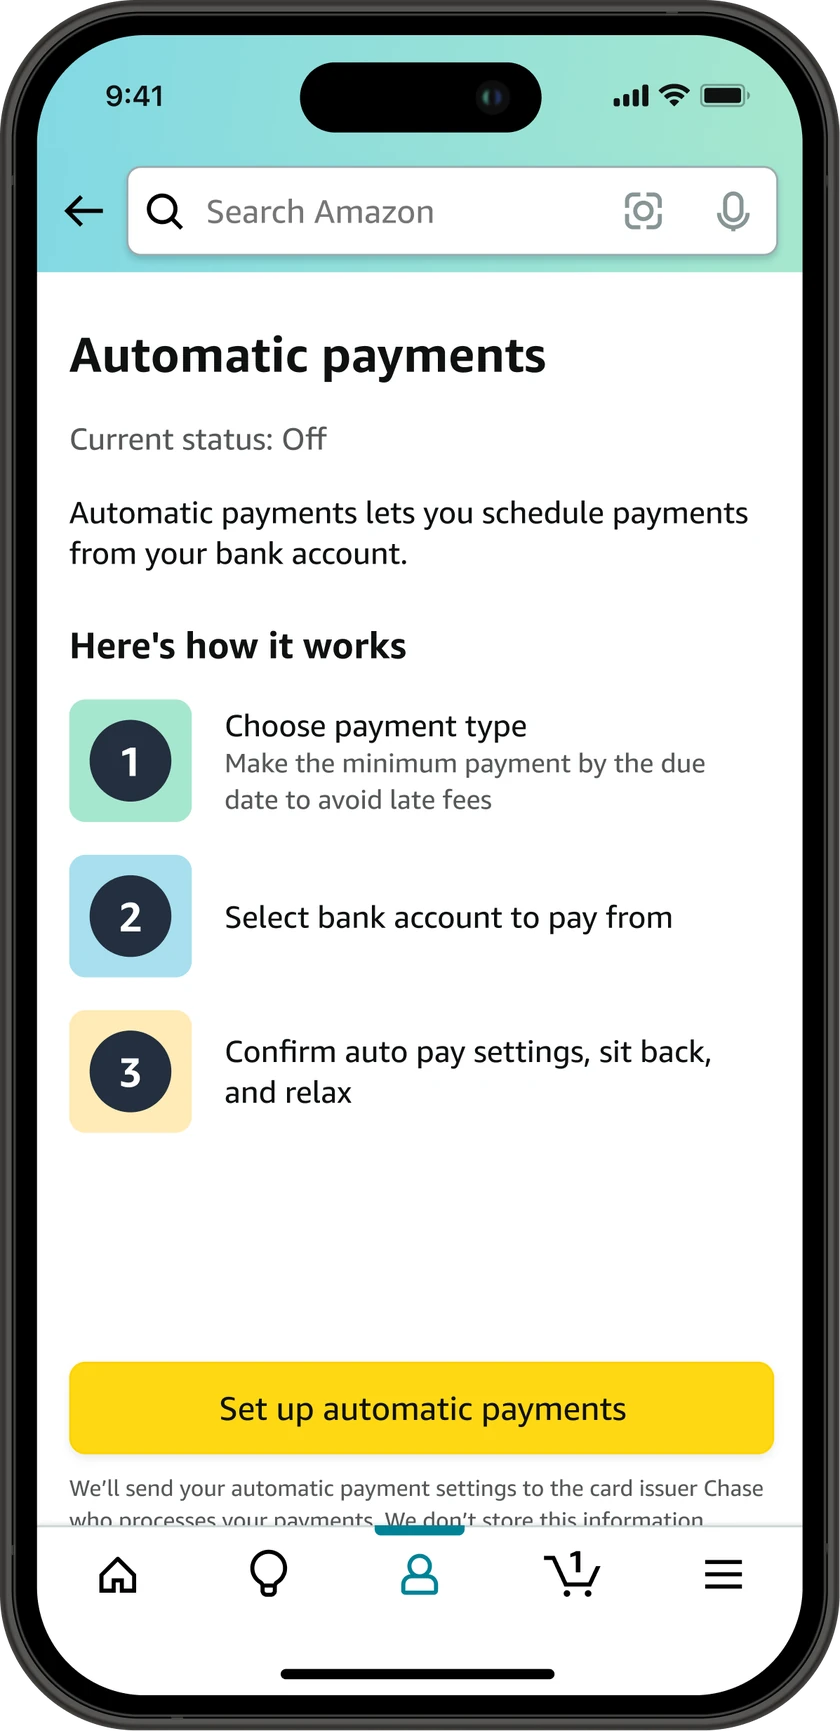
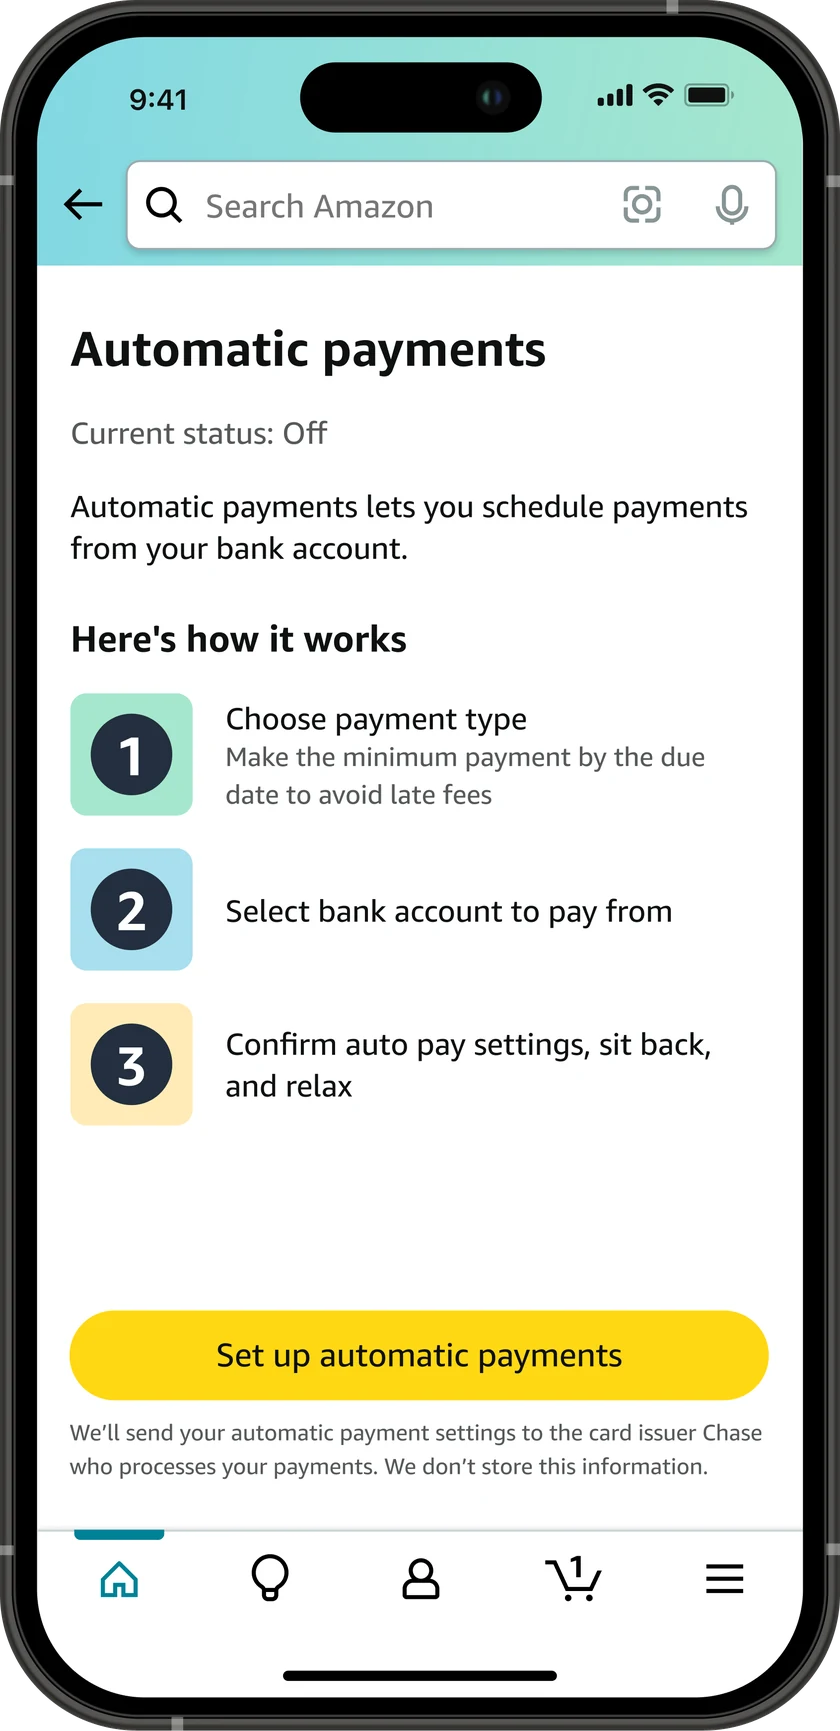
Ship the Automatic payments screen from the corrected Figma frame
The frame now says "Set up automatic payments" again, so iteration 70's
held build ships. Second export of node 2445:49028; the two exports
differ in one box, the button label band, and nothing else.

Against the outgoing asset: the Chase disclosure's second line is no
longer clipped by the tab bar, the primary button is a pill in line with
the three screens rebuilt in 66, 67 and 69, and the content sits 6px
higher. 78,622 bytes against 80,018, still 840 x 1731 with a full canvas
alpha bbox, so no width or height attribute moved and the alt text is
true as written.

One new Figma side item: the lit tab moved from Account to Home, so this
screen disagrees with its pair partner. Roughly 6px of teal, named by no
copy or alt text, so it did not hold the ship.

Confirm autopay settings was left alone, checked rather than assumed: it
has no filled button for the pill to disagree with.

Ports 23741 and 23747. Site audit over 8 pages and 5 viewports clean.

diff --git a/work/pay-bill.html b/work/pay-bill.html
@@ -368,6 +368,14 @@
           </figure>
         </div>
 
+        <!-- The autopay pair. The entry screen was rebuilt in iteration 70 from
+             node 2445:49028, on the second export of it: the first renamed its
+             button to Submit payment, so that build was held and reported rather
+             than shipped, and the alt text below still names the real label
+             because the label came back. Confirm autopay settings was left alone
+             for the same reason iteration 69 left Payment submitted alone, which
+             was checked rather than assumed: it has no filled button, so the new
+             pill next to it disagrees with nothing. -->
         <div class="shots shots--pair">
           <figure class="shot">
             <div class="shot__frame shot__frame--device">

diff --git a/DESIGN-SYSTEM.md b/DESIGN-SYSTEM.md
@@ -81,7 +81,7 @@ iterations/24-card-dashboard-goals-trim/  the second paragraph and the whole fou
 iterations/25-card-dashboard-team-role/  Card Dashboard section 03 replaced with the user's own team roster and a prose responsibilities sentence, retiring the UX working group paragraph and its five item .case-list. removed.html has both plus the old hero .case-meta Team value, which had to change in the same edit or the page stated the team two ways. Records why the rail keeps the short form, why 4&nbsp;Engineers carries a non-breaking space, and the two claims that came out of the copy and where each still lives on the page.
 iterations/26-card-dashboard-servicing-linked-only/  a one sentence factual correction in Card Dashboard section 04: servicing kept the top of the page for linked customers only, because on-Amazon servicing is gated on account linking, not "in both cases". No markup change. Also flags the framework figcaption's "hold fixed placement in both", which makes a similar claim about the header, quick action pills and balance and was left alone because it describes what is drawn on that board.
 iterations/27-card-dashboard-chase-linking/  Card Dashboard section 04 second paragraph: the unserved segment would not link their Chase account, not their "bank account", and they managed the card at Chase's app/website. Adds the gating rule that linking the Amazon and Chase accounts was required for on-Amazon servicing, which is what makes "most of the page was dead weight" follow rather than assert. Records why "bank account" was wrong here and right on Pay Bill, where it survives nine times.
-iterations/70-autopay-how-it-works-new-frame/  **the Automatic payments frame is built and HELD, not shipped**, asked for the same way as 69, a screenshot of the live asset beside a node: *"update this image with: [node-id=2445-49028]"*. `assets/img/pay-bill/autopay-how-it-works.webp` was **not replaced**. The export renames the screen's primary button from **"Set up automatic payments"** to **"Submit payment"**, which is the Confirm payment screen's button label two pairs up in section 05 and is wrong on a screen that is the entry point to enrollment and submits no payment. That was confirmed against Figma's own render of the node rather than the PNG export, so it is the frame saying it; the crop is in `candidate/figma-node-button.png`. Shipping it would have put a wrong call to action on a page meant to show shipped work, which is a content error rather than a rendering artifact, and would have made the figure's alt text false, since it ends "and a Set up automatic payments button". **The export is not one sided**, which is why this is a trade rather than a rejection: it **fixes the clipped Chase disclosure**, the most visibly wrong thing in the screenshot the user pasted, and it makes the button a pill, which would bring this screen into line with the three rebuilt in 66, 67 and 69 and leave only bank accounts and activity on the old shape. The trade is still the wrong way round, because a clipped line of 6px disclosure text is a mock artifact and a wrong button label is a claim about the product. Everything else is identical, Current status Off, the same three numbered steps, the same disclosure sentence, with the content sitting 6px higher (ink row profiles: mean absolute difference 22.0 at zero offset, 16.3 at -6) and the file 76,328 bytes against 80,018. The bezel is 37px at mid height, same as the live asset and every other Pay Bill phone asset, so iteration 66's thinner bezel finding failed to hold for the second time. `proc.py` is the encoder of record and is **ready to run unchanged** the moment the frame says "Set up automatic payments" again: keyed output is already 840 x 1731 with alpha bbox (0, 0, 840, 1731), which this file shares with its pair partner `autopay-confirm-settings.webp`, so shipping it will need no markup change at all. The built asset is kept at `candidate/autopay-how-it-works.webp` with a side by side against the live one. **No asset, markup or attribute in the repo changed**; this entry is the only tracked edit, recording the hold as a decision rather than an oversight.
+iterations/70-autopay-how-it-works-new-frame/  **the Automatic payments screen, held for one wrong word and then shipped**, node `2445:49028`, asked for the same way as 69, a screenshot of the live asset beside a node: *"update this image with: [node-id=2445-49028]"*, then released two messages later with *"updated the figma so it's correct now"*. It took **two exports of the same node**. The first renamed the screen's primary button from **"Set up automatic payments"** to **"Submit payment"**, which is the Confirm payment screen's button label two pairs up in section 05 and is wrong on a screen that is the entry point to enrollment and submits no payment, so the built asset was **held in `candidate/` and reported instead of published**: it would have put a wrong call to action on a page whose whole claim is that the work shipped, a content error rather than a rendering artifact, and it would have made the figure's alt text false, since the alt ends "and a Set up automatic payments button". That the frame rather than the export said it was confirmed against Figma's own render of the node, crop at `candidate/figma-node-button.png`, which is what made the hold defensible rather than speculative. **The hold was a trade, not a walkover**, worth recording because the shape will recur: the held export also **fixed the clipped Chase disclosure**, the most visibly wrong thing in the screenshot the user pasted. A clipped line of 6px disclosure text is a mock artifact and a wrong button label is a claim about the product, so it is an order, but it is an order rather than a one sided rejection. The user fixed the frame, so this iteration keeps both exports, the corrected one in `source/` and the first in `source-first-export/`; thresholded at 60 **they differ in one box, (438, 2703, 1252, 2767), the button label band and nothing else**, and the button was cropped from the new export and read back: "Set up automatic payments". `assets/img/pay-bill/autopay-how-it-works.webp` was then **replaced**, `proc.py` being the encoder of record for a file that had none, with everything below its docstring a copy of iteration 67's, which is 66's, which is 65's: same keyer, same 505 background-run rows assertion, 840 x 1731, a size this file shares with its pair partner `autopay-confirm-settings.webp` and so cannot change alone. Against the outgoing asset the shipped one carries the **unclipped disclosure**, a **pill** primary button where it was a rounded rectangle, the content **6px higher** (ink row profiles: mean absolute difference 22.0 at zero offset, 16.3 at -6), and one change that is new and Figma side: **the lit tab moved from Account to Home**, cropped from both files at 2x and read rather than inferred, which leaves this screen disagreeing with its pair partner, which still lights Account. Account is the more plausible of the two for a credit card settings screen, so that reads as a regression in the frame; it did not hold the ship because it is about 6px of teal where this renders, no page copy or alt text names the tab bar, and unlike a button label it makes no claim a reader could act on. It joins the slider screen's disagreeing cents on the Figma side list. Every other word is identical, Current status Off, the three numbered steps, the same disclosure sentence, and the bezel is 37px at mid height as in every other Pay Bill phone asset, so **iteration 66's thinner bezel finding failed to hold for the third time**. **The pair partner needed nothing and this was checked** rather than assumed, the question iteration 66 got wrong and 69 got right: `autopay-confirm-settings.webp` has **no filled button**, only a disclosure row and a checked agreement box, so a pill beside it disagrees with nothing, and its bezel is the same 37px. Section 05 now holds pills on four rebuilt screens and rounded rectangles on bank accounts and activity only, none of them adjacent to a pill, and the nodes for those are not known. Output 78,622 bytes against 80,018, quality 88 method 6, alpha bbox (0, 0, 840, 1731), so no `width` or `height` attribute moved and **no markup changed at all**; the export was 1692 x 3487 on the same `#F5F5F5` with the same (63, 61, 59) bezel. The alt text and caption did not change, which is the whole point of the hold: the alt names the current status, the three step explanation and the button, and all three are still true. Ports 23741 and 23747, `/tmp/audit57.py` over 8 pages and 5 viewports **ALL CLEAN**, resolution ratio 1.06 at 1512 and 1.00 at 1280 and 1.21 at 390 for both halves of the pair, the 1.00 being the pair floor iteration 66 recorded and predating this work.
 iterations/69-confirm-payment-new-frame/  **the Confirm payment screen rebuilt from the current Figma frame**, node `2445:47493`, asked for by pasting a screenshot of the live asset beside the node: *"update this image with this: [node-id=2445-47493]"*. `assets/img/pay-bill/otp-confirm-payment.webp` is the left half of the second `.shots--pair` in Pay Bill section 05, and `proc.py` here is the encoder of record for a file that had none, since iterations 08 through 11 cover the Pay Bill screens as a set without naming any one file or its crop. Everything below the docstring is a copy of iteration 67's, which is 66's, which is 65's: same keyer, same assertions, 840 x 1731, and that size is a constraint rather than a default because the pair's other half is `otp-payment-submitted.webp` and the two have to match. **Every figure and every word on the screen is identical**, $980.00 selected, Today (April 28, 2022), Chase Checking ***9993, the same 8 PM to 11:59 PM ET paragraph and the same authorization paragraph. Two things moved: the **Submit payment button is a pill** where it was a rounded rectangle, the same change the Continue button made in iteration 66, so this rebuild brings the section's button shapes into agreement rather than splitting them; and the **whole screen sits 17px lower**, about 8 CSS px where it renders, found by sliding the two dark ink row profiles against each other (mean absolute difference 59.1 at zero offset, 17.2 at +17), which is what accounts for the 640 rows a naive comparison flags as changed. **Two of iteration 66's findings were checked here and do not hold**, which is why they are not repeated: the bezel is not thinner, it is 37px at mid height in this file and in every other Pay Bill phone asset including the old generation, and the header search field has not widened, cropped from both files and compared it is the same width in the same place 17px lower. **Payment submitted was left alone on purpose and this is not the iteration 66 situation**, checked before deciding: that pair was one screen shown twice, where two button shapes read as two different screens, and this pair is two different screens of which the confirmation **has no button** for a pill to disagree with, and the same 37px bezel. What it does leave is section 05 holding two generations of the app's button shape, pills on the three rebuilt screens and rounded rectangles on the autopay, bank accounts and activity screens below; none of those is adjacent to a pill so nothing reads as a contradiction, and the nodes for those six are not known. Output 93,038 bytes against 97,146, alpha bbox (0, 0, 840, 1731), so no `width` or `height` attribute moved; the export was 1692 x 3487 on the same `#F5F5F5` with the same (63, 61, 59) bezel and the 505 background-run rows assertion passed, which is the check on the frame geometry. The alt text and caption did not change: the alt names the amount selected, the payment date, the bank account, the 8 PM cutoff and the button, all still true, and a button radius is not a fact a screen reader user needs. One comment was added to `work/pay-bill.html` above the pair recording the rebuild and why the right half was left. Ports 23629 and 23633, `/tmp/audit57.py` over 8 pages and 5 viewports **ALL CLEAN**, resolution ratio 1.06 at 1512 and 1.00 at 1280 and 1.21 at 390 for both halves, the 1.00 being the pair floor iteration 66 recorded and predating this work.
 iterations/68-thumbnail-slider-digit/  **the same digit on the home page thumbnail**, asked for as *"Update the slider image in thumbnail as well to reflect 245 at min pay"*. `assets/img/pay-bill/home-card.webp` rebuilt so its right hand phone reads **$245.40** as the minimum payment due instead of $235.40, which puts the home page on the same generation of the screen as the case study after iteration 67 changed it there. `proc.py` here is the encoder of record for this file, superseding iteration 65's, and everything below its docstring is a byte for byte copy of 65's, keyer and assertions and geometry alike, so the only thing that can have changed is the one source file meant to. **The left phone was re-downloaded and had not changed**: node `2445:43500` came back byte for byte identical to the copy iterations 65 and 66 both used, md5 `f8e91aa2af5727c8746b5faf9bd49f4b`, which is the only way to know the user did not adjust the radio screen while fixing the slider and is cheaper than reasoning about it. The right phone is iteration 67's third export of `2445:45969`, already on disk, so no second Figma call was needed. The output is unchanged in every respect but one: 1600 x 1200 RGBA, alpha bbox (236, 47, 1364, 1152), opaque column runs (236, 771) and (828, 1363), and 79,114 bytes before and after. Thresholding the difference between the outgoing and incoming WebPs at 60 gives **80 pixels in an 11 x 15 box at (1253, 695)**, inside the right phone's column run and nowhere near the left one. The threshold is the point: a raw diff on a lossy WebP covers the whole frame and says nothing, a trap this repo has fallen into before. The figure was then cropped from both files at 8x and read back rather than inferred, $235.40 against $245.40. **It is visible, just barely**: the digit is about 5 CSS px tall where the canvas renders 513 CSS px wide at 1512, which is readable on a 2x display and was read off a capture of the live card at both 1512 and 390, so this is a visible correction at the sizes the card is actually seen rather than only bookkeeping. Nothing in the markup or the copy moved. `index.html`'s alt names the custom amount field, the three radio labels, the $550.00 payment and the $13.65 charge and does not quote the minimum payment due, so it is still accurate word for word, and `width` and `height` stay 1600 and 1200. No page text in the repo cites either figure (grep); the only hits are iteration entries here, which are records of past states and correct as written. Resolution ratio 1.56 at 1512 and 2.73 at 390. Ports 23531 and 23537, `/tmp/audit57.py` over 8 pages and 5 viewports **ALL CLEAN**. **Still off, Figma side and untouched by this**: the minimum payment due still does not equal its neighbour, $245.67 on the radio screen against $245.40 on the slider, dollars agreeing and cents not, and both legible on this card as well as in Pay Bill section 05; the current balance disagrees, $1,341.10 against $1,341.00; and the Chase disclosure's second line runs under the tab bar.
 iterations/67-slider-minimum-digit/  **one digit on the slider screen**, asked for as *"Update the slider image then: [node-id=2445-45969]"* after iteration 66 reported that the two phones in Pay Bill section 05 disagreed about the minimum payment due. This is the **third** export of that node, and it differs from the second in exactly one place, proven rather than assumed: diffing the two 1692 x 3487 PNGs pixel for pixel gives a bounding box of (1342, 2046) to (1375, 2090), 33 x 44 px at 4x, one digit, **$235.40 becoming $245.40**. That negative result is as useful as the positive one, because it proves the other two open defects were untouched: the current balance still reads $1,341.00 against $1,341.10 on the screen beside it, and the Chase disclosure's second line still runs under the tab bar. And the figure that was fixed **still does not equal its neighbour**, $245.40 here against $245.67 there: the dollars agree and the cents do not, so the gap went from $10.27 to 27 cents rather than to nothing, and at 396 CSS px per phone both cent values are legible one above the other. Read off a screenshot digit by digit rather than inferred from the diff. `proc.py` here is the encoder of record for `slider-select-amount.webp`, superseding iteration 66's for that file only; 66's remains the encoder of record for `otp-select-amount.webp`, and everything below this one's docstring is a copy of 66's with the second job removed so the two halves of the pair cannot drift apart in keying or size. Keying is iteration 65's `load_keyed` for the third time and its assertion that 505 of 3487 rows carry a `#F5F5F5` run passes again, which is the check that Figma has not quietly changed the frame geometry between exports. 840 x 1731 again because the pair has to match, so no `width` or `height` attribute moved and the only edit to `work/pay-bill.html` is one clause naming this iteration. No alt text or caption changed: neither cites the minimum payment due, the caption names $13.65 and the alt "13 dollars 65 cents", and no published copy anywhere cites $235.40 or $245.40 (grep). Thresholding the difference between the outgoing and incoming **shipped** WebPs at 60 gives (666, 1016) to (682, 1038) and 180 pixels, so the digit is the only substantive change to survive the re-encode and the rest of the whole-image difference is lossy noise. `/tmp/audit57.py` over 8 pages and 5 viewports: **ALL CLEAN**.
